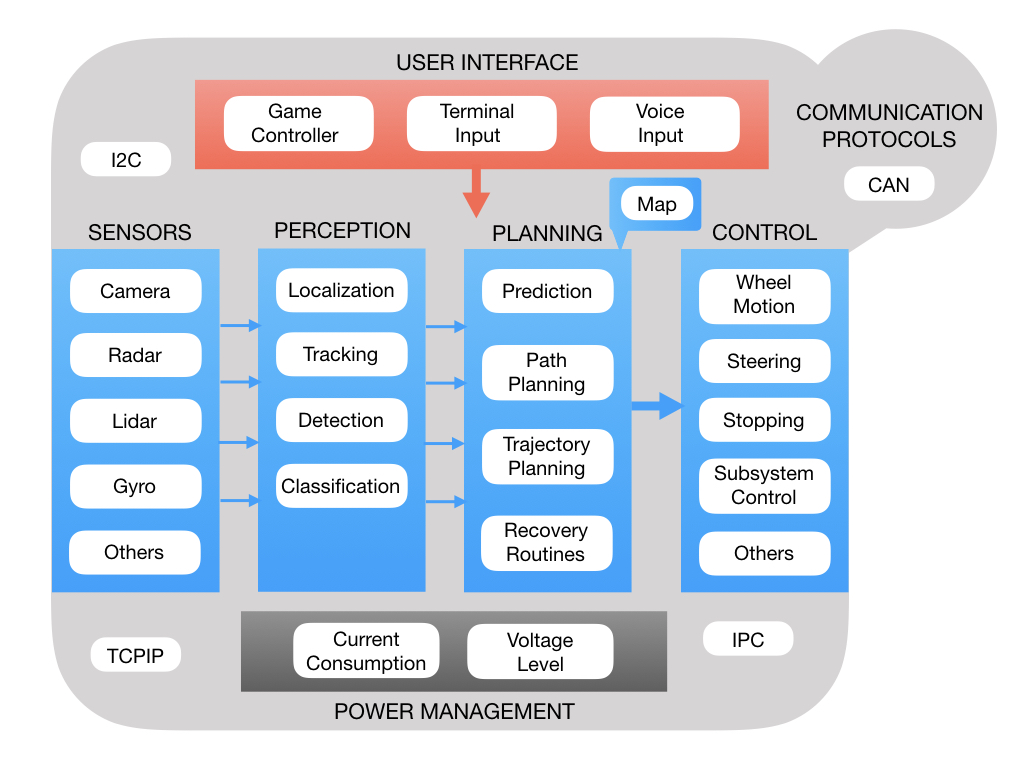
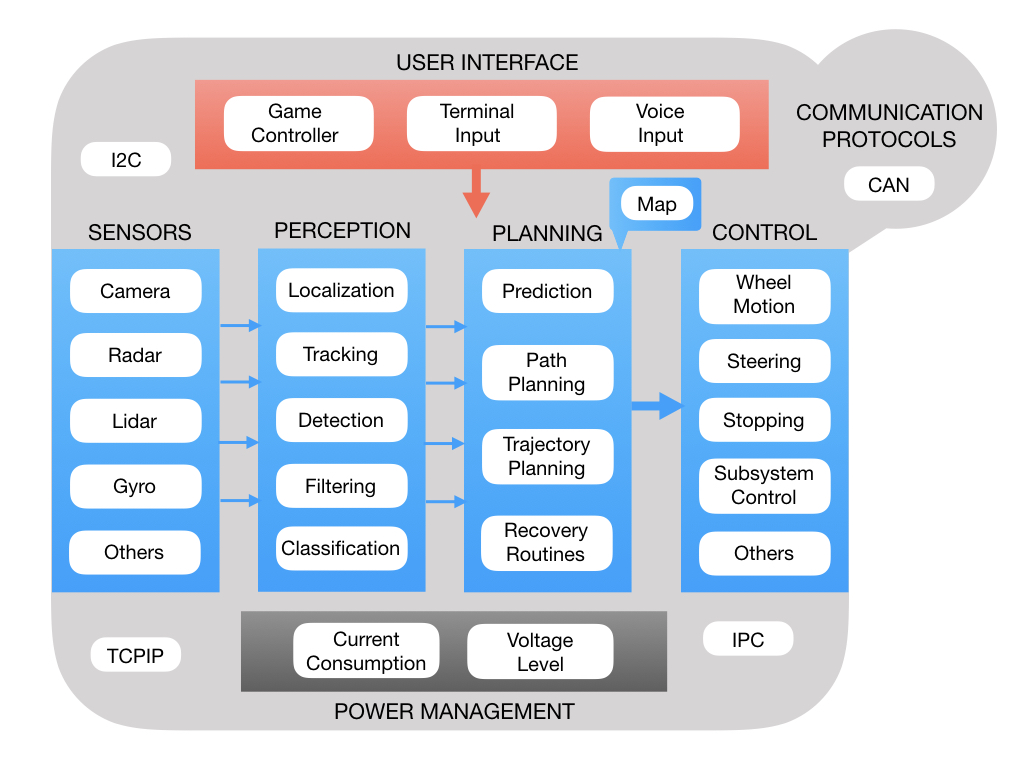
Added text of Control Algorithms

Changed region(s): [[0.25, 0.6875, 0.4062, 0.75], [0.2812, 0.625, 0.4062, 0.6562]]

diff --git a/Concepts/RobotSystem/sensors.md b/Concepts/RobotSystem/sensors.md
@@ -1,5 +1,21 @@
 # Sensors
 
+## Laser Distance Sensors (LDS)
+Edit all of this....
+Laser Distance Sensors (LDS) are referred to various names such as Light Detection And Ranging (LiDAR), Laser Range Finder (LRF) and Laser Scanner. LDS is a sensor used to measure the distance to an object using a laser as its source. The LDS sensor has the advantage of high performance, high speed, real time data acquisition, so it has a wide range of applications in relation to distance measurement. This is a sensor widely used in the field of robots for recognition of objects and people, and distance sensor based SLAM (distance-based sensor), and also widely used in unmanned vehicles due to its real time data acquisition.
+
+The LDS sensor calculates the difference of the wavelength when the laser source is reflected by the object. A typical LDS consists of a single laser source, a reflective mirror, and a motor. When you drive the LDS, you can hear the sound of the rotating motor, because it rotates the inner mirror and scans the laser in a horizontal plane. Typically measures from 180 to 360 degrees, depending on the product.
+
+Because it measures the return of the laser source, therefore, is useless if nothing is reflected. In other words, transparent glass, plastic bottles, glass cups are tend to reflect or scatter the laser source in many directions. And for mirrors, lights are reflected back to the mirror making it inaccurate measurement. 
+
+Also, because the horizontal plane is scanned, only objects on the horizontal plane are detected by the sensor. In other words, you need to know that it is 2D data.
+
+There are infinite usages of LDS, and SLAM (Simultaneous Localization And Mapping)16 is one of the most well known examples of using LDS. SLAM creates a map by recognizing obstacles around the robot and estimates current position of the robot within a map. As another example of using LDS, the robot is able to detect various objects in the surroundings and react based on the current environment. 
+
+## Cameras
+The camera corresponds to the eye in the robot. The images obtained from the camera are very useful for recognizing the environment around the robot. For example, object recognition using a camera image, facial recognition, a distance value obtained from the difference between two different images using two cameras (stereo camera), mono camera visual SLAM, color recognition using information obtained from an image and object tracking are very useful.
+
+
 <h3><span style="float:left">
 <a href="intro">Previous</a></span>
 <span style="float:right">

diff --git a/Concepts/RobotSystem/control.md b/Concepts/RobotSystem/control.md
@@ -1,4 +1,9 @@
 # Control Algorithms
+Members of the programming team are primarily tasked with writing algorithms that control the robot.  This is the most heavily researched areas of robotics with a high demand of skilled programmers, especially those who understand robotic systems. To get an understanding of robot programming it's helpfull to try and categorize the algorithms into their functional areas.
+
+A robot receives input from two sources; a user interface that sends it commands, and the sensors that perceive the environment around it.  Once the input is received the robot has to plan an action to perform and send control signals to it's actuators to carry out that action.  Input coming in from sensors must first be passed through the perception stack before it goes onto the planning algorithms. This is because sensor data is very large and coming in at a fast rate.  The robot has to make sense of that data before it can make use of it.
+
+A critical piece of information that a robot would get from its sensors is <i>"Where am I?"</i> and <i>"What is my orientation?"</i>.  This process is call <i>**Localization**</i>. As the robot moves is needs to ensure that is remains on its intended path.  This process is called <i>**Tracking**</i>.  The perception algorithms need to filter the vast amounts of data coming in from the sensors in order to extract pertinent information.  
 
 ![Control Categories](../../images/FRCConcepts/FRCConcepts.012.jpeg)
 
